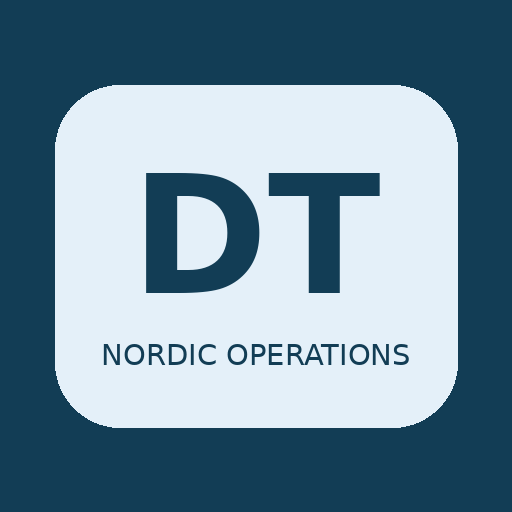
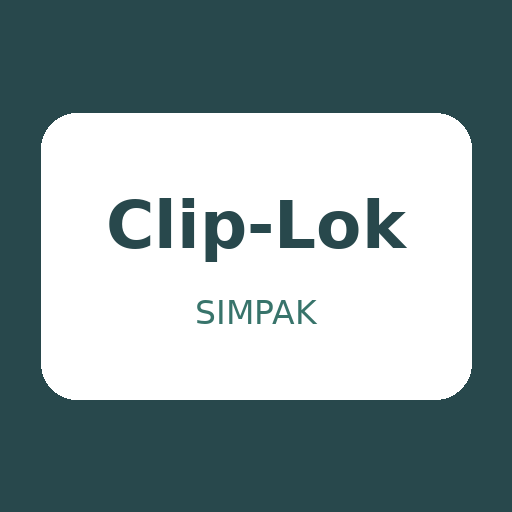
Add files via upload

diff --git a/index.html b/index.html
@@ -1,6 +1,6 @@
 <!DOCTYPE html>
 
-<html lang="da"><head><meta charset="utf-8"/><meta content="width=device-width,initial-scale=1,viewport-fit=cover" name="viewport"/><meta content="#123D55" name="theme-color"/><meta content="yes" name="apple-mobile-web-app-capable"/><meta content="default" name="apple-mobile-web-app-status-bar-style"/><meta content="DriverTalk" name="apple-mobile-web-app-title"/><link href="manifest.webmanifest" rel="manifest"/><link href="icon-192.png" rel="apple-touch-icon"/><title>DriverTalk · Nordic Operations</title>
+<html lang="da"><head><meta charset="utf-8"/><meta content="width=device-width,initial-scale=1,viewport-fit=cover" name="viewport"/><meta content="#2c5959" name="theme-color"/><meta content="yes" name="apple-mobile-web-app-capable"/><meta content="default" name="apple-mobile-web-app-status-bar-style"/><meta content="DriverTalk" name="apple-mobile-web-app-title"/><link href="manifest.webmanifest" rel="manifest"/><link href="icon-192.png" rel="apple-touch-icon"/><title>DriverTalk · Clip-Lok SimPak</title>
 <style>
 :root{font-family:Inter,-apple-system,BlinkMacSystemFont,"Segoe UI",sans-serif;color:#19334a;background:#eef3f6}*{box-sizing:border-box}body{margin:0}button,input,textarea{font:inherit}button{cursor:pointer}button:disabled{cursor:not-allowed;opacity:.5}.wrap{max-width:850px;margin:auto;padding:0 18px 40px}.hero{background:linear-gradient(120deg,#102b41,#174763);color:white;padding:24px 0 27px}.hrow{display:flex;align-items:center;justify-content:space-between;gap:12px}.brand{font-weight:850;font-size:25px;letter-spacing:-1px}.brand small{display:block;letter-spacing:2px;font-size:9px;color:#b0d0e4;margin-top:3px}.mark{width:47px;height:47px;background:#e4f0f9;color:#123753;border-radius:13px;display:grid;place-items:center;font-size:25px}.tag{color:#bad2e1;font-size:12px;letter-spacing:.2px}.intro{font-size:14px;color:#d3e1ec;line-height:1.5;margin:18px 0 0}.card{background:#fff;border:1px solid #dce7ed;border-radius:17px;padding:20px;box-shadow:0 3px 14px #0b30400a;margin-top:18px}.label{font-size:11px;font-weight:800;letter-spacing:1.2px;color:#678193;margin-bottom:13px}.langs{display:grid;grid-template-columns:repeat(4,minmax(0,1fr));gap:9px}.lang{border:1px solid #dae5eb;background:#f8fafb;border-radius:12px;padding:10px 4px;min-height:80px;color:#233e51}.lang[aria-pressed=true]{background:#e6f2fa;border:2px solid #226796;padding:9px 3px}.flag{font-size:25px;display:block;margin-bottom:5px}.langname{font-size:11px;font-weight:750}.tabrow{display:grid;grid-template-columns:repeat(3,minmax(0,1fr));gap:8px;margin-top:20px}.tab{border:1px solid #d9e4e8;border-radius:12px;background:#fff;color:#38576a;padding:13px 4px;font-weight:750;font-size:13px}.tab[aria-selected=true]{background:#174d70;color:#fff;border-color:#174d70}.section{display:none}.section.active{display:block}.search{width:100%;height:47px;border:1px solid #d3e0e8;border-radius:11px;padding:0 13px;outline-color:#2775a6}.filters{display:flex;gap:7px;overflow-x:auto;padding:12px 0;scrollbar-width:none}.chip{white-space:nowrap;border:1px solid #d9e4eb;background:#fff;color:#456477;border-radius:99px;padding:9px 13px;font-size:12px;font-weight:700}.chip.on{background:#dbeefa;border-color:#8dbfe0;color:#164a6c}.phrase{border:1px solid #e0e7ec;border-radius:12px;padding:15px;margin:10px 0;background:#fff}.phrasehead{display:flex;align-items:flex-start;justify-content:space-between;gap:12px}.phrase .da{font-weight:750;font-size:16px}.phrase .foreign{font-size:17px;color:#1a617f;margin:10px 0 12px;line-height:1.45}.pill{font-size:10px;color:#678496;background:#edf3f6;border-radius:99px;padding:5px 7px;white-space:nowrap}.actions{display:flex;gap:8px;flex-wrap:wrap}.btn{border:0;border-radius:10px;padding:11px 15px;font-weight:800;display:inline-flex;align-items:center;justify-content:center;gap:7px}.primary{background:#185779;color:white}.secondary{background:#e7f2f8;color:#205a7d}.quiet{background:#eff3f5;color:#36546a}.danger{background:#fff0ed;color:#ad4030}.wide{width:100%}.note{font-size:12px;line-height:1.5;color:#637d8d}.notice{border:1px solid #f0dba5;border-radius:11px;background:#fffaeb;color:#785922;padding:12px;font-size:12px;line-height:1.5;margin-top:14px}.field{width:100%;border:1px solid #d5e2e9;border-radius:11px;padding:13px;min-height:100px;resize:vertical;outline-color:#2674a1}.display{background:#f2f7fa;border-radius:12px;padding:16px;min-height:105px;margin:12px 0}.display strong{font-size:19px;line-height:1.5}.status{font-size:12px;color:#647e8e;min-height:20px}.pair{display:grid;grid-template-columns:1fr 1fr;gap:9px}.step{font-size:13px;color:#587285}.big{font-size:22px;font-weight:850;line-height:1.35}.safety{background:#fff9f3;border:1px solid #f1d9c2;border-radius:13px;padding:16px}.foot{text-align:center;color:#6b8491;font-size:11px;margin-top:24px}.qrbox{background:#eef5f8;border-radius:13px;padding:15px;text-align:center;word-break:break-word}.logo{font-size:14px;font-weight:800}.hidden{display:none!important}#toast{position:fixed;bottom:22px;left:50%;transform:translateX(-50%);background:#15394f;color:white;border-radius:12px;padding:13px 18px;max-width:90%;font-size:13px;box-shadow:0 9px 40px #0004;display:none;z-index:9}body.driver .operator-only{display:none!important}body.driver .driver-only{display:block!important}.driver-only{display:none!important}@media(max-width:440px){.wrap{padding-left:12px;padding-right:12px}.card{padding:15px}.tab{font-size:12px;padding:12px 3px}.phrase .foreign{font-size:16px}.langs{gap:5px}.lang{min-height:73px}.langname{font-size:10px}}
 
@@ -33,7 +33,7 @@
 
 .quickbtn.priority-quick{background:#dceefa;border-color:#4d9ed1;box-shadow:inset 0 0 0 1px #4d9ed1}
 
-/* Originale farver fra pilot; neutraliseret til Nordic Operations. */
+/* Originale farver fra pilot; neutraliseret til Clip-Lok SimPak. */
 :root{color:#372D2D;background:#F6F4F4}
 body{background:#F6F4F4}
 .hero{background:linear-gradient(110deg,#A90017 0%,#D20A20 75%,#B40019 100%);border-bottom:3px solid #82000C}
@@ -65,7 +65,7 @@ body{background:#F6F4F4}
 /* Hjemknap: samme design, nu klikbar */
 .homebrand{display:flex;align-items:center;gap:12px;padding:0;margin:0;border:0;background:transparent;color:inherit;text-align:left;cursor:pointer}.homebrand:focus-visible{outline:3px solid #fff;outline-offset:5px;border-radius:8px}.homebrand .brand{display:block}.homebrand:hover .brand{text-decoration:underline;text-decoration-thickness:1px;text-underline-offset:4px}
 
-/* Nordic Operations – selvstændig visuel identitet */
+/* Clip-Lok SimPak – selvstændig visuel identitet */
 :root{color:#19334a;background:#eef3f6}body{background:#eef3f6}
 .hero{background:linear-gradient(110deg,#102b41,#174763);border-bottom:3px solid #0a2536}
 .hero .brand small,.hero .tag{color:#cce2ed}.mark{background:#e4f0f9;color:#123753}
@@ -77,14 +77,17 @@ body{background:#F6F4F4}
 .phrase .foreign{color:#1a617f}.fullscreen{background:#f6fafb}#toast{background:#15394f}
 .nordic-brand-logo{font-size:11px;font-weight:800;letter-spacing:1px;color:#e6f5ff;white-space:nowrap;margin-left:10px}
 @media(max-width:560px){.nordic-brand-logo{font-size:8px;letter-spacing:0;margin-left:3px}}
+
+/* Clip-Lok demo identity */
+:root{background:#f3f5f5;color:#23353b}body{background:#f3f5f5}.hero{background:linear-gradient(115deg,#243a43,#3c5b60);border-bottom:3px solid #9bb6a9}.primary,.tab[aria-selected=true]{background:#2c5959;border-color:#2c5959}.secondary,.expand{background:#e1efeb;color:#23534f}.quickbtn.priority-quick{background:#e0f0e9;border-color:#39786b;box-shadow:inset 0 0 0 1px #39786b}.lang[aria-pressed=true]{background:#e0f0e9;border-color:#39786b}.phrase .foreign{color:#2d6860}.clip-logo{width:150px;max-width:36vw;height:auto;object-fit:contain;margin-left:10px;background:white;padding:5px 9px;border-radius:8px}@media(max-width:560px){.clip-logo{width:112px;margin-left:3px;padding:4px}}
 </style></head><body>
-<svg aria-hidden="true" style="position:absolute;width:0;height:0;overflow:hidden" xmlns="http://www.w3.org/2000/svg"><symbol id="ico-truck" viewbox="0 0 24 24"><path d="M3 6h11v11H3zM14 10h4l3 3v4h-7M7 20a2 2 0 1 0 0-4 2 2 0 0 0 0 4ZM18 20a2 2 0 1 0 0-4 2 2 0 0 0 0 4Z" fill="none" stroke="currentColor" stroke-linecap="round" stroke-linejoin="round" stroke-width="1.8"></path></symbol><symbol id="ico-message" viewbox="0 0 24 24"><path d="M4 5h16v12H9l-5 4V5Z" fill="none" stroke="currentColor" stroke-linejoin="round" stroke-width="1.8"></path><path d="M8 9h8m-8 4h6" stroke="currentColor" stroke-linecap="round" stroke-width="1.8"></path></symbol><symbol id="ico-mic" viewbox="0 0 24 24"><rect fill="none" height="12" rx="3" stroke="currentColor" stroke-width="1.8" width="6" x="9" y="3"></rect><path d="M6 12a6 6 0 0 0 12 0M12 18v3m-4 0h8" fill="none" stroke="currentColor" stroke-linecap="round" stroke-width="1.8"></path></symbol><symbol id="ico-user" viewbox="0 0 24 24"><circle cx="12" cy="7" fill="none" r="4" stroke="currentColor" stroke-width="1.8"></circle><path d="M4 21v-2a8 8 0 0 1 16 0v2" fill="none" stroke="currentColor" stroke-width="1.8"></path></symbol></svg><header class="hero"><div class="wrap"><div class="hrow"><div class="hrow" style="justify-content:flex-start"><button type="button" id="homeButton" class="homebrand" aria-label="Tilbage til forsiden" title="Tilbage til forsiden"><span class="mark"><svg><use href="#ico-truck"></use></svg></span><span class="brand">DriverTalk<small>WAREHOUSE COMMUNICATION</small></span></button><span class="nordic-brand-logo">NORDIC OPERATIONS™</span></div><span class="tag">Version 1.0</span></div><p class="intro">Enkel kommunikation ved rampen med faste beskeder på 12 sprog.</p></div></header>
+<svg aria-hidden="true" style="position:absolute;width:0;height:0;overflow:hidden" xmlns="http://www.w3.org/2000/svg"><symbol id="ico-truck" viewbox="0 0 24 24"><path d="M3 6h11v11H3zM14 10h4l3 3v4h-7M7 20a2 2 0 1 0 0-4 2 2 0 0 0 0 4ZM18 20a2 2 0 1 0 0-4 2 2 0 0 0 0 4Z" fill="none" stroke="currentColor" stroke-linecap="round" stroke-linejoin="round" stroke-width="1.8"></path></symbol><symbol id="ico-message" viewbox="0 0 24 24"><path d="M4 5h16v12H9l-5 4V5Z" fill="none" stroke="currentColor" stroke-linejoin="round" stroke-width="1.8"></path><path d="M8 9h8m-8 4h6" stroke="currentColor" stroke-linecap="round" stroke-width="1.8"></path></symbol><symbol id="ico-mic" viewbox="0 0 24 24"><rect fill="none" height="12" rx="3" stroke="currentColor" stroke-width="1.8" width="6" x="9" y="3"></rect><path d="M6 12a6 6 0 0 0 12 0M12 18v3m-4 0h8" fill="none" stroke="currentColor" stroke-linecap="round" stroke-width="1.8"></path></symbol><symbol id="ico-user" viewbox="0 0 24 24"><circle cx="12" cy="7" fill="none" r="4" stroke="currentColor" stroke-width="1.8"></circle><path d="M4 21v-2a8 8 0 0 1 16 0v2" fill="none" stroke="currentColor" stroke-width="1.8"></path></symbol></svg><header class="hero"><div class="wrap"><div class="hrow"><div class="hrow" style="justify-content:flex-start"><button type="button" id="homeButton" class="homebrand" aria-label="Tilbage til forsiden" title="Tilbage til forsiden"><span class="mark"><svg><use href="#ico-truck"></use></svg></span><span class="brand">DriverTalk<small>WAREHOUSE COMMUNICATION</small></span></button><span class="nordic-brand-logo">CLIP-LOK SIMPAK™</span></div><span class="tag">Version 1.0 · Clip-Lok</span></div><p class="intro">Enkel kommunikation ved rampen med faste beskeder på 12 sprog.</p></div></header>
 <main class="wrap"><div class="card"><div class="hrow"><div class="label" style="margin-bottom:0">CHAUFFØRENS SPROG · 12 SPROG</div><span class="pill" id="selection">Polsk</span></div><div class="langs" id="languages" style="margin-top:14px"></div></div>
 <div class="tabrow operator-only" role="tablist"><button aria-selected="true" class="tab" data-tab="phrases">Beskeder til chaufføren</button><button aria-selected="false" class="tab" data-tab="driverinfo">Chaufføren svarer</button></div>
 <section class="section active" id="phrases"><div class="card"><div class="hrow"><div><div class="label">FASTE BESKEDER</div><div class="note">Vælg en sætning – vis den stort på chaufførens sprog.</div></div></div><div class="label" style="margin-top:4px">HURTIGE BESKEDER</div><div class="quicklist" id="quicklist"></div><input aria-label="Søg i beskeder" class="search" id="search" placeholder="Søg efter flere beskeder …" type="search"/><details class="optional-details" id="optionalTranslate"><summary>Skriv en anden besked <span id="translateAvailability" style="font-weight:400;font-size:12px;color:#886e74">· kræver aktivering</span></summary><div class="free-translate" id="freeTranslate"><div class="label">SKRIV FRIT · TILVALG</div><p class="note" id="freeAvailability">Fri onlineoversættelse er ikke aktiveret endnu. En sikker oversættelsestjeneste kan tilsluttes senere. De faste beskeder fungerer stadig. Skriv ikke personoplysninger, bookingnumre eller fortrolige data.</p><div class="free-pair"><div><label for="employeeText"><strong>Medarbejder skriver på dansk</strong></label><textarea class="field" id="employeeText" maxlength="400" placeholder="F.eks. Du skal selv læsse lastbilen."></textarea><button class="btn primary wide" id="translateEmployee" type="button">Oversæt til chaufføren</button></div></div><div class="display hidden" id="freeResult"><div class="label" id="freeResultLanguage"></div><div class="resultbig" id="freeResultText"></div><div class="actions" style="margin-top:12px"><button class="btn expand" id="freeShowBig" type="button">Vis stort</button><button class="btn quiet" id="freeReset" type="button">Ny besked</button></div></div><p class="status" id="freeStatus" role="status"></p></div></details><details class="optional-details" id="allPhrases"><summary>Find flere faste beskeder</summary><div class="filters" id="filters"></div><div id="phraseList"></div></details></div></section>
 <section class="section" id="driverinfo"><div class="card"><div class="label">CHAUFFØREN SVARER</div><p class="note" style="margin:0 0 10px">Vælg et svar på chaufførens sprog. Det vises stort på dansk – på denne skærm.</p><div class="replybox"><div class="answercontext"><div class="label" style="margin-top:12px">SVAR PÅ SPØRGSMÅLET</div><div class="contextname">Vælg et spørgsmål eller en kategori</div><div class="answercategories"></div><div class="answerspecific"></div></div><div class="label" style="margin-top:12px">ALMINDELIGE SVAR</div><div class="replybuttons"><button class="btn secondary" data-reply="yes" type="button">Ja</button><button class="btn secondary" data-reply="no" type="button">Nej</button><button class="btn secondary" data-reply="unknown" type="button">Jeg forstår ikke</button><button class="btn secondary" data-reply="no_booking" type="button">Intet bookingnummer</button></div><div class="label" style="margin-top:14px">KØLEMASKINENS INDSTILLING</div><div class="temps"><button class="btn quiet" data-temp="-25" type="button">−25 °C</button><button class="btn quiet" data-temp="-20" type="button">−20 °C</button><button class="btn quiet" data-temp="-18" type="button">−18 °C</button><button class="btn quiet" data-temp="-5" type="button">−5 °C</button><button class="btn quiet" data-temp="2" type="button">+2 °C</button><button class="btn quiet" data-temp="4" type="button">+4 °C</button></div><div class="temperatureinput"><label>Anden temperatur (°C)</label><input aria-label="Kølemaskinens temperatur i grader Celsius" class="tempInput" inputmode="decimal" max="40" min="-40" placeholder="F.eks. −18" step="0.5" type="number"><button class="btn primary sendTemp" type="button">Vis svar</button></input></div><p class="note">Kun kølemaskinens indstillede temperatur, ikke en faktisk temperaturmåling.</p></div><details class="optional-details" id="driverFreeSection" style="margin-top:14px"><summary>Chaufføren skriver et andet svar <span id="driverTranslateAvailability" style="font-weight:400;font-size:12px;color:#886e74">· kræver aktivering</span></summary><div class="free-translate"><p class="note" id="driverFreeAvailability">Fri oversættelse er endnu ikke aktiveret. Chaufføren kan fortsat vælge de faste svar ovenfor.</p><label for="driverText"><strong>Chaufføren skriver på sit valgte sprog</strong></label><textarea class="field" id="driverText" maxlength="400" placeholder="Skriv et svar her ..."></textarea><button class="btn primary wide" id="translateDriver" type="button">Oversæt til dansk</button><div class="display hidden" id="driverFreeResult"><div class="label">CHAUFFØRENS SVAR · DANSK</div><div class="resultbig" id="driverFreeResultText"></div><div class="actions" style="margin-top:12px"><button class="btn expand" id="driverFreeShowBig" type="button">Vis stort</button></div></div><p class="status" id="driverFreeStatus" role="status"></p></div></details><details class="optional-details"><summary>Del link til chaufførens telefon (valgfrit)</summary><div class="label">CHAUFFØRVISNING / QR</div><h2 style="margin:0 0 8px">Faste beskeder på chaufførens telefon</h2><p class="note">Del et link til chaufførvisningen. Her kan chaufføren se de faste beskeder på sit sprog. Der er ikke live-forbindelse mellem de to telefoner i denne version.</p><div class="qrbox"><div style="font-size:30px;margin-bottom:10px">▦</div><div class="logo" id="shareUrl"></div><div class="actions" style="justify-content:center;margin-top:14px"><button class="btn primary" id="copyLink">Kopiér link</button><button class="btn quiet" id="openDriver">Åbn chaufførvisning</button></div></div><div class="notice">Et QR-billede kan fremstilles ud fra linket ved udrulning. Lokal filåbning på enheden kan ikke deles til chaufførens telefon.</div></details></div></section>
 <section class="driver-only" id="driverView"><div class="card"><div class="label">INFORMATION TIL CHAUFFØREN</div><h2 id="driverHeading">Velkommen</h2><p class="note" id="driverSub">Vælg et svar nedenfor, og vis det til lageret på dansk.</p><div class="safety" style="margin:12px 0"><div class="label">HURTIGT SVAR</div><p class="note">Brug svarfeltet nedenfor, hvis lageret skal læse dit svar på samme skærm.</p></div><div class="replybox"><div class="label">CHAUFFØRENS SVAR · SAMME SKÆRM</div><p class="note">Lad chaufføren vælge et svar. Det vises straks på dansk på denne enhed – ingen data gemmes eller sendes.</p><div class="answercontext"><div class="label" style="margin-top:12px">SVAR PÅ SPØRGSMÅLET</div><div class="contextname">Vælg et spørgsmål eller en kategori</div><div class="answercategories"></div><div class="answerspecific"></div></div><div class="label" style="margin-top:12px">ALMINDELIGE SVAR</div><div class="replybuttons"><button class="btn secondary" data-reply="yes" type="button">Ja</button><button class="btn secondary" data-reply="no" type="button">Nej</button><button class="btn secondary" data-reply="unknown" type="button">Jeg forstår ikke</button><button class="btn secondary" data-reply="no_booking" type="button">Intet bookingnummer</button></div><div class="label" style="margin-top:14px">KØLEMASKINENS INDSTILLING</div><div class="temps"><button class="btn quiet" data-temp="-25" type="button">−25 °C</button><button class="btn quiet" data-temp="-20" type="button">−20 °C</button><button class="btn quiet" data-temp="-18" type="button">−18 °C</button><button class="btn quiet" data-temp="-5" type="button">−5 °C</button><button class="btn quiet" data-temp="2" type="button">+2 °C</button><button class="btn quiet" data-temp="4" type="button">+4 °C</button></div><div class="temperatureinput"><label>Anden temperatur (°C)</label><input aria-label="Kølemaskinens temperatur i grader Celsius" class="tempInput" inputmode="decimal" max="40" min="-40" placeholder="F.eks. −18" step="0.5" type="number"/><button class="btn primary sendTemp" type="button">Vis svar</button></div><p class="note">Kun kølemaskinens indstillede temperatur, ikke en faktisk temperaturmåling.</p></div><div class="hidden" id="driverPhrases"></div><button class="btn quiet wide" id="backOperator" style="margin-top:15px">Tilbage til medarbejdervisning</button></div></section>
-<div class="foot">DriverTalk · Version 1.0 · Nordic Operations</div></main><div aria-live="polite" id="toast" role="status"></div><div aria-label="Stor oversættelse" aria-modal="true" class="fullscreen" id="fullscreen" role="dialog"><div class="fullsmall" id="fullLanguage"></div><div class="fulltext" id="fullText"></div><div class="fullactions"><button class="btn quiet" id="fullAnswer" style="display:none">↩ Svar</button><button class="btn secondary" id="fullSpeak">▶ Afspil</button><button class="btn primary" id="fullClose">Luk</button></div></div>
+<div class="foot">DriverTalk · Version 1.0 · Clip-Lok SimPak</div></main><div aria-live="polite" id="toast" role="status"></div><div aria-label="Stor oversættelse" aria-modal="true" class="fullscreen" id="fullscreen" role="dialog"><div class="fullsmall" id="fullLanguage"></div><div class="fulltext" id="fullText"></div><div class="fullactions"><button class="btn quiet" id="fullAnswer" style="display:none">↩ Svar</button><button class="btn secondary" id="fullSpeak">▶ Afspil</button><button class="btn primary" id="fullClose">Luk</button></div></div>
 <script src="config.js"></script><script>
 // Alle 12 chaufførsprog. Fri tekstoversættelse er valgfri og kræver en sikker backend. Ingen mikrofon.
 const languages=[{id:'pl',name:'Polsk',native:'Polski',flag:'🇵🇱',speech:'pl-PL'},{id:'ro',name:'Rumænsk',native:'Română',flag:'🇷🇴',speech:'ro-RO'},{id:'uk',name:'Ukrainsk',native:'Українська',flag:'🇺🇦',speech:'uk-UA'},{id:'bg',name:'Bulgarsk',native:'Български',flag:'🇧🇬',speech:'bg-BG'},{id:'lt',name:'Litauisk',native:'Lietuvių',flag:'🇱🇹',speech:'lt-LT'},{id:'lv',name:'Lettisk',native:'Latviešu',flag:'🇱🇻',speech:'lv-LV'},{id:'et',name:'Estisk',native:'Eesti',flag:'🇪🇪',speech:'et-EE'},{id:'hu',name:'Ungarsk',native:'Magyar',flag:'🇭🇺',speech:'hu-HU'},{id:'en',name:'Engelsk',native:'English',flag:'🇬🇧',speech:'en-GB'},{id:'de',name:'Tysk',native:'Deutsch',flag:'🇩🇪',speech:'de-DE'},{id:'es',name:'Spansk',native:'Español',flag:'🇪🇸',speech:'es-ES'},{id:'it',name:'Italiensk',native:'Italiano',flag:'🇮🇹',speech:'it-IT'}];
@@ -382,4 +385,4 @@ $('search').addEventListener('input',()=>{if($('search').value.trim())$('allPhra
   let changed=false;
   navigator.serviceWorker.addEventListener('controllerchange',()=>{if(!changed){changed=true;location.reload()}});
 }
-</script><div style="text-align:center;padding:12px 8px 24px;color:#84656a;font-size:12px">Developed by Nordic Operations™</div></body></html>
+</script><div style="text-align:center;padding:12px 8px 24px;color:#84656a;font-size:12px">Developed by Clip-Lok SimPak™</div></body></html>

diff --git a/sw.js b/sw.js
@@ -1,5 +1,5 @@
-const CACHE='drivertalk-nordic-v100';
-const ASSETS=['./','./index.html','./config.js','./manifest.webmanifest','./icon-192.png','./icon-512.png'];
+const CACHE='drivertalk-cliplok-v100';
+const ASSETS=['./','./index.html','./config.js','./manifest.webmanifest','./icon-192.png','./icon-512.png','./clip-lok-logo.svg'];
 self.addEventListener('install',e=>e.waitUntil(caches.open(CACHE).then(c=>c.addAll(ASSETS))));
 self.addEventListener('activate',e=>e.waitUntil(Promise.all([
  caches.keys().then(keys=>Promise.all(keys.filter(k=>k.startsWith('drivertalk-')&&k!==CACHE).map(k=>caches.delete(k)))),self.clients.claim()])));
